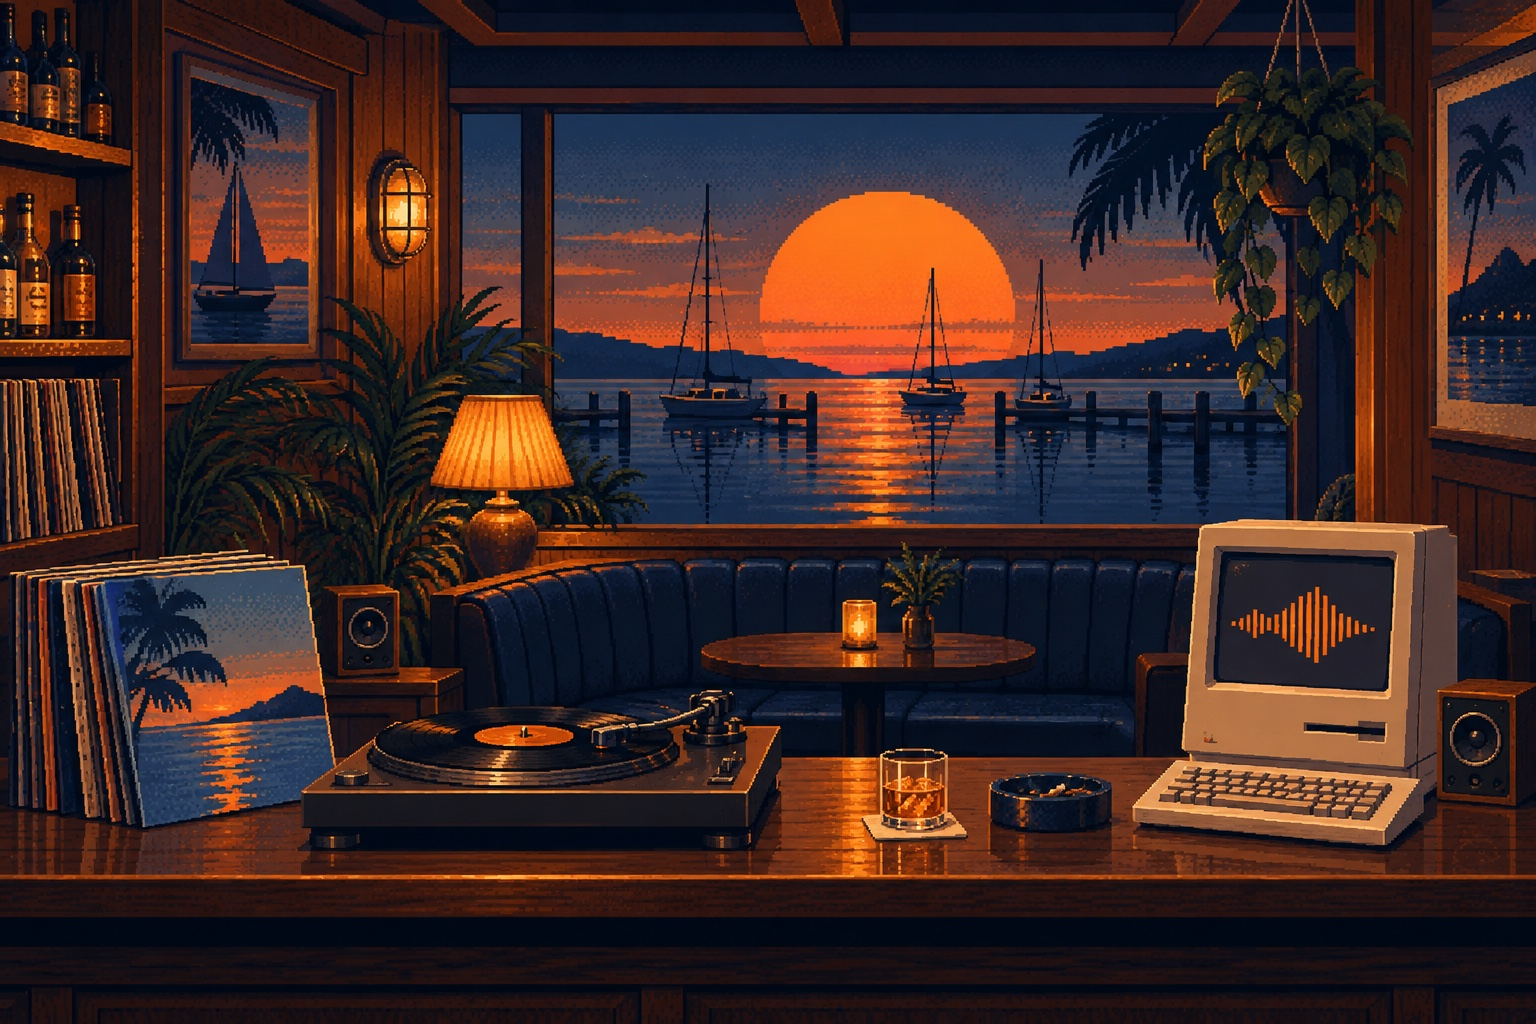
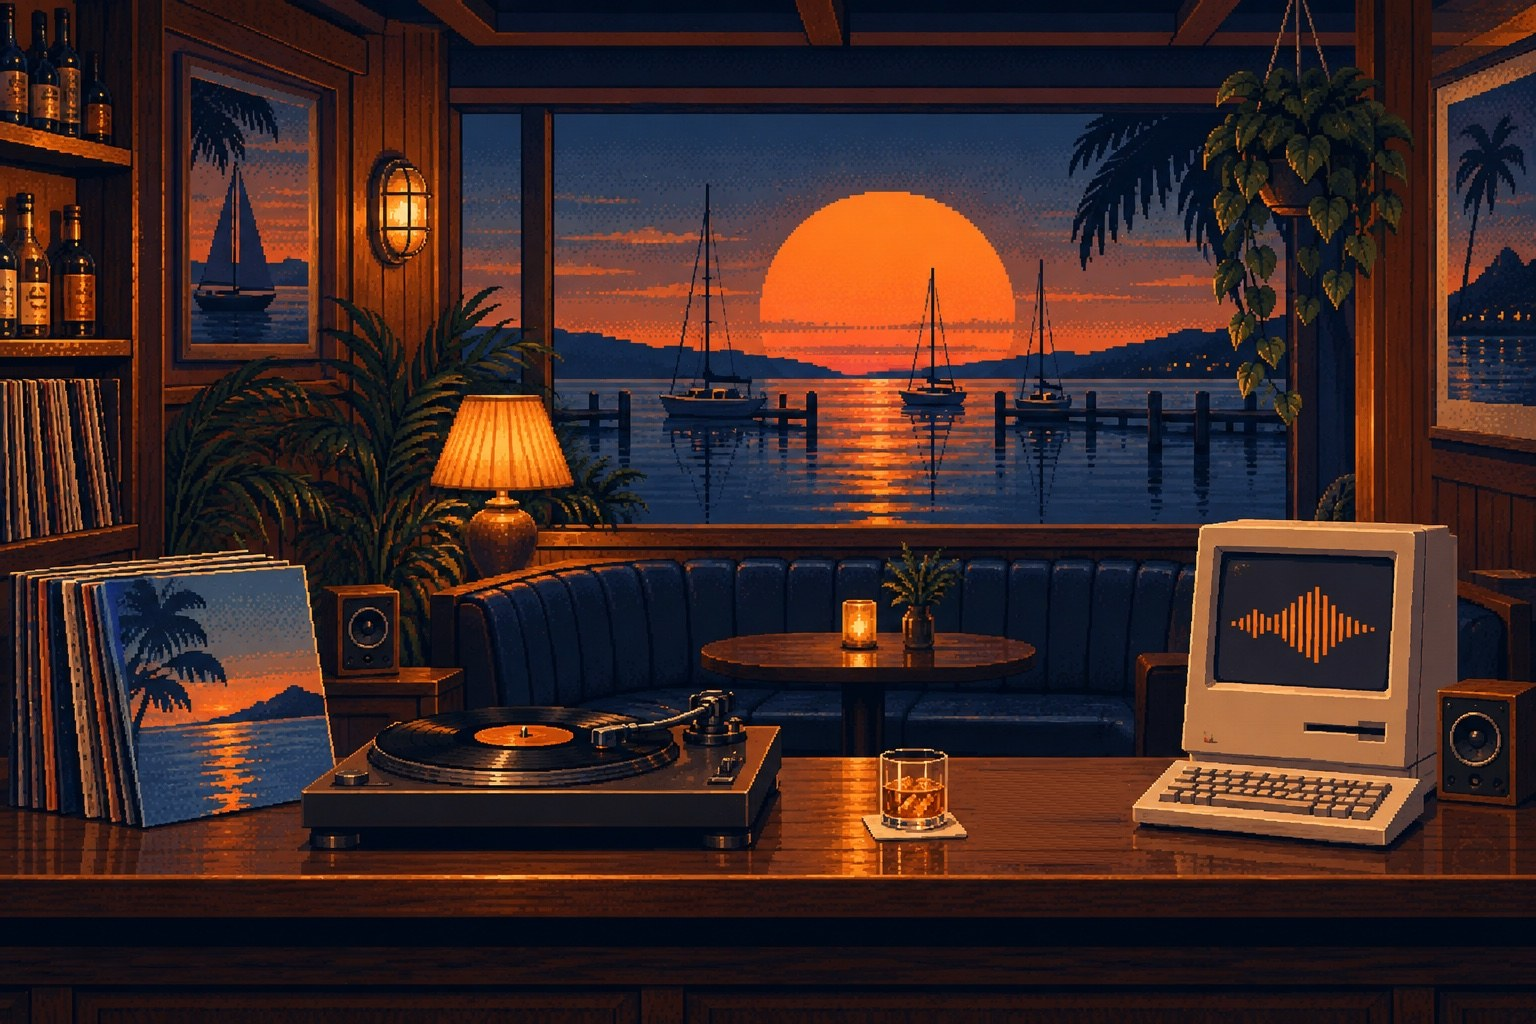
Bring the listening room to life and clear the ashtray
Hero art: ashtray and its reflection painted out (bar-top grain carried
across), served as WebP (208 KB, was 554 KB) with a JPG fallback.

Gentle CSS overlays on the art: lamp glow breathes, candle flickers,
glints drift on the sun's reflection, and the Mac's waveform pulses.
When Smooth radio is on the waveform speeds up and notes float off the
turntable. All motion stops under prefers-reduced-motion.

Claude-Session: https://claude.ai/code/session_01MbY3PRR1D4Wf9Gm1AwFgav

Changed region(s): [[0.625, 0.75, 0.75, 0.8438]]

diff --git a/index.html b/index.html
@@ -61,6 +61,24 @@
 .scene{display:block;width:100%;height:auto;aspect-ratio:3/2;object-fit:cover}
 .hero .window{transform:rotate(.6deg)}
 
+/* The listening room, gently alive. Overlay positions are % of the 1536x1024 art. */
+.scene-wrap{position:relative;line-height:0}
+.fx{position:absolute;inset:0;pointer-events:none;overflow:hidden}
+.fx span{position:absolute;display:block}
+.fx-lamp{left:22%;top:30%;width:22%;height:33%;border-radius:50%;background:radial-gradient(closest-side,#ffb45a40,transparent);mix-blend-mode:screen;animation:breathe 7s ease-in-out infinite}
+.fx-candle{left:54.2%;top:57.2%;width:3.6%;height:5.4%;border-radius:50%;background:radial-gradient(closest-side,#ffcf7a99,transparent);mix-blend-mode:screen;animation:flicker 2.3s steps(1) infinite}
+.fx-glint{left:calc(var(--x)*1%);top:calc(var(--y)*1%);width:1.3%;height:.4%;background:#ffd49a;opacity:0;animation:glint 6s var(--d) ease-in-out infinite}
+.fx-screen{left:79.8%;top:56.3%;width:10.3%;height:9%;background:#262229;display:flex!important;align-items:center;justify-content:space-between;padding:0 .4%}
+.fx-screen i{display:block;width:3.2%;height:calc(var(--h)*1%);background:#df6d26;box-shadow:0 0 4px #df6d2688;transform-origin:center;animation:wave 2.4s var(--d) steps(3) infinite alternate}
+.fx-note{left:calc(var(--x)*1%);top:66%;font:bold clamp(10px,1.6vw,22px)/1 var(--mono);color:#f9c07f;text-shadow:0 0 6px #f2945c;opacity:0}
+[data-radio=on] .fx-screen i{animation-duration:.7s}
+[data-radio=on] .fx-note{animation:rise 3.9s var(--d) ease-out infinite}
+@keyframes breathe{50%{opacity:.55}}
+@keyframes flicker{0%,100%{opacity:1}23%{opacity:.75}41%{opacity:.95}67%{opacity:.8}}
+@keyframes glint{0%,100%{opacity:0}45%,55%{opacity:.85}}
+@keyframes wave{from{transform:scaleY(.55)}to{transform:scaleY(1)}}
+@keyframes rise{0%{opacity:0;transform:translate(0,0)}15%{opacity:.9}100%{opacity:0;transform:translate(1.2vw,-9vw) rotate(10deg)}}
+
 /* Slow ticker */
 .ticker{border-block:1px solid #f3ead622;overflow:hidden;white-space:nowrap;font:11px/1 var(--mono);letter-spacing:.16em;text-transform:uppercase;color:var(--muted)}
 .ticker-track{display:inline-flex;gap:48px;padding:16px 0;animation:drift 70s linear infinite}
@@ -179,7 +197,7 @@ section{padding-top:84px}
       <p class="hero-copy">A slow corner of the internet for yacht rock, the session players behind it, covers recorded at home, and whatever else drifts in on the tide.</p>
       <div class="actions"><button class="button primary" type="button" data-radio-proxy>▶ Tune in smooth radio</button><a class="button ghost" href="#logbook">Read the logbook ↓</a></div>
     </div>
-    <figure class="window" style="margin:0"><div class="window-bar"><span class="window-title">The listening room</span></div><img class="scene" src="/images/yacht-listening-room.jpg" width="1536" height="1024" alt="Pixel art of a cozy marina bar with a record player, beige computer, and sailboats at sunset."></figure>
+    <figure class="window" style="margin:0"><div class="window-bar"><span class="window-title">The listening room</span></div><div class="scene-wrap"><picture><source srcset="/images/yacht-listening-room.webp" type="image/webp"><img class="scene" src="/images/yacht-listening-room.jpg" width="1536" height="1024" alt="Pixel art of a cozy marina bar with a record player, beige computer, and sailboats at sunset."></picture><div class="fx" aria-hidden="true"><span class="fx-lamp"></span><span class="fx-candle"></span><span class="fx-glint" style="--x:54.7;--y:40;--d:0s"></span><span class="fx-glint" style="--x:56.6;--y:44.5;--d:1.6s"></span><span class="fx-glint" style="--x:55.3;--y:48.6;--d:3.1s"></span><span class="fx-glint" style="--x:57.2;--y:39.2;--d:4.4s"></span><span class="fx-screen"><i style="--h:12;--d:0s"></i><i style="--h:22;--d:0.35s"></i><i style="--h:34;--d:0.7s"></i><i style="--h:26;--d:0.15s"></i><i style="--h:20;--d:0.5s"></i><i style="--h:30;--d:0.9s"></i><i style="--h:44;--d:0.25s"></i><i style="--h:58;--d:0.6s"></i><i style="--h:76;--d:0.05s"></i><i style="--h:92;--d:0.4s"></i><i style="--h:78;--d:0.8s"></i><i style="--h:60;--d:0.2s"></i><i style="--h:46;--d:0.55s"></i><i style="--h:34;--d:0.95s"></i><i style="--h:26;--d:0.3s"></i><i style="--h:20;--d:0.65s"></i><i style="--h:14;--d:0.1s"></i><i style="--h:10;--d:0.45s"></i><i style="--h:8;--d:0.75s"></i></span><span class="fx-note" style="--x:33;--d:0s">♪</span><span class="fx-note" style="--x:36.5;--d:1.3s">♫</span><span class="fx-note" style="--x:31;--d:2.6s">♪</span></div></div></figure>
   </div>
 </div>
 

diff --git a/marina.js b/marina.js
@@ -24,7 +24,7 @@
   var streams=['https://ice1.somafm.com/seventies-128-mp3','https://ice2.somafm.com/seventies-128-mp3','https://ice4.somafm.com/seventies-128-mp3'];
   var audio=new Audio();audio.preload='none';audio.volume=.7;
   var label=button.querySelector('.radio-label'),dot=button.querySelector('.radio-dot'),index=0;
-  function set(state,text,glyph){button.dataset.state=state;label.textContent=text;dot.textContent=glyph;button.setAttribute('aria-pressed',String(state==='on'))}
+  function set(state,text,glyph){button.dataset.state=state;document.documentElement.dataset.radio=state;label.textContent=text;dot.textContent=glyph;button.setAttribute('aria-pressed',String(state==='on'))}
   function tune(i){
     index=i;set('tuning','Tuning in…','…');audio.src=streams[i];
     audio.play().then(function(){set('on','On air','■')}).catch(function(){
